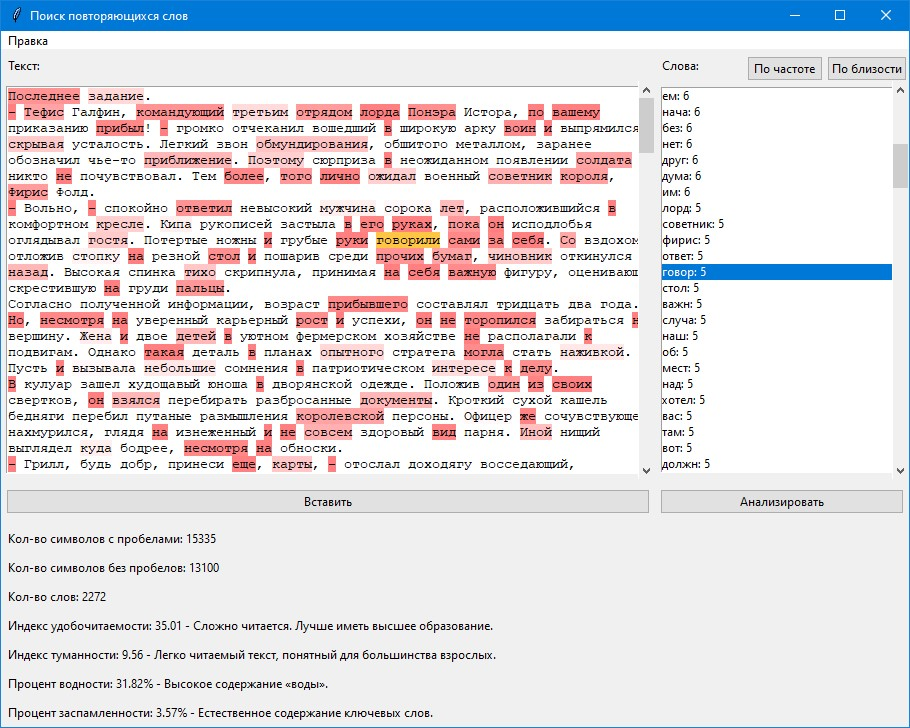
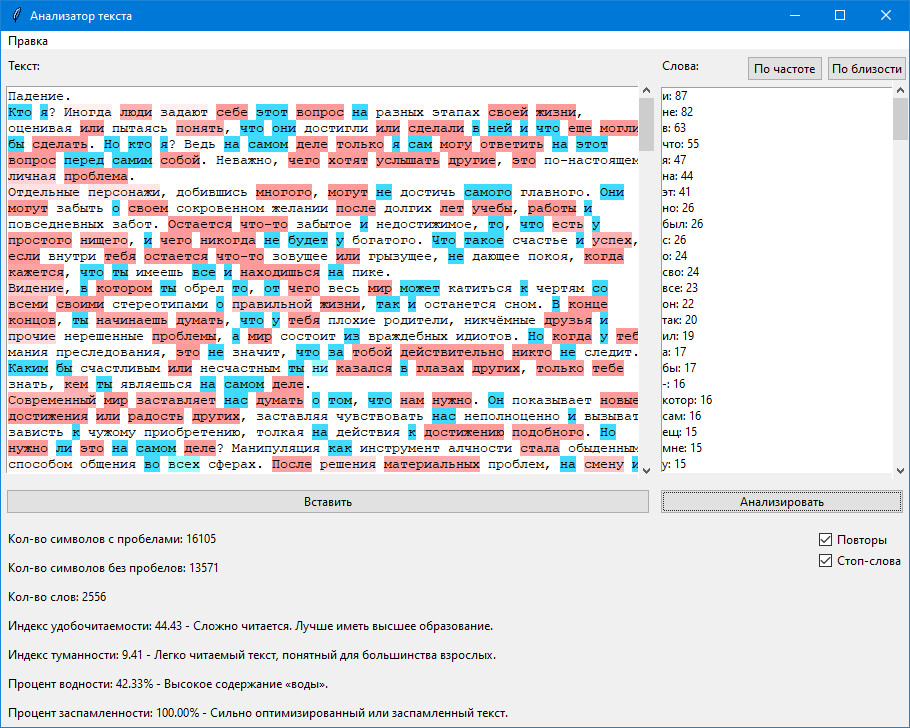
Stop words
Add new highlight type for worlds and interfece check buttons

diff --git a/text_analyzer.py b/text_analyzer.py
@@ -1,11 +1,13 @@
 import tkinter as tk
-from tkinter import ttk
+import nltk
+import logging
 import re
+
+from tkinter import ttk
 from nltk.stem import SnowballStemmer
 from nltk.tokenize import word_tokenize, sent_tokenize
 from collections import Counter
-import nltk
-import logging
+from dataclasses import dataclass
 
 logging.basicConfig(level=logging.INFO)
 
@@ -27,16 +29,27 @@ except LookupError:
     logging.info("Downloading necessary stopwords data...")
     nltk.download('stopwords')
 
+@dataclass
+class WordInfo:
+    count: int
+    min_distance: int
+    is_stopword: bool
+
+@dataclass
+class HighlightMode:
+    repeat_word: bool
+    stop_word: bool
+
 class DuplicateWordFinder(tk.Tk):
 
     def __init__(self):
         super().__init__()
-        self.title("Поиск повторяющихся слов")
+        self.title("Анализатор текста")
 
-        # Словари
-        self.text_length = 100  # Длина текста для нормировки
-        self.word_counts = {}
-        self.word_min_distances = {}  # Добавляем словарь для хранения минимальных расстояний
+        # Словари и переменные
+        self.highlight_mode = HighlightMode(repeat_word = True, stop_word = True)
+        self.text_length = 100   # Минимальная длина текста для нормировки
+        self.word_info = {}      # Добавляем словарь для хранения информации о словах
         self.sorted_words = []
 
         # Стоп-слова (можно расширить)
@@ -96,28 +109,40 @@ class DuplicateWordFinder(tk.Tk):
 
         # Добавляем метки для статистики
         self.char_count_label = ttk.Label(self, text="Кол-во символов с пробелами: -")
-        self.char_count_label.grid(row=4, column=0, columnspan=2, sticky="w", padx=5, pady=5)
+        self.char_count_label.grid(row=4, column=0, sticky="w", padx=5, pady=5)
 
         self.char_count_no_spaces_label = ttk.Label(self, text="Кол-во символов без пробелов: -")
-        self.char_count_no_spaces_label.grid(row=5, column=0, columnspan=2, sticky="w", padx=5, pady=5)
+        self.char_count_no_spaces_label.grid(row=5, column=0, sticky="w", padx=5, pady=5)
 
         self.word_count_label = ttk.Label(self, text="Кол-во слов: -")
-        self.word_count_label.grid(row=6, column=0, columnspan=2, sticky="w", padx=5, pady=5)
+        self.word_count_label.grid(row=6, column=0, sticky="w", padx=5, pady=5)
 
         # Добавляем метку для отображения индекса удобочитаемости
         self.easy_index_label = ttk.Label(self, text="Индекс удобочитаемости: -")
-        self.easy_index_label.grid(row=7, column=0, columnspan=2, sticky="w", padx=5, pady=5)
+        self.easy_index_label.grid(row=7, column=0, sticky="w", padx=5, pady=5)
 
         # Добавляем метку для отображения индекса туманности
         self.fog_index_label = ttk.Label(self, text="Индекс туманности: -")
-        self.fog_index_label.grid(row=8, column=0, columnspan=2, sticky="w", padx=5, pady=5)
+        self.fog_index_label.grid(row=8, column=0, sticky="w", padx=5, pady=5)
 
         # Добавляем метки для водности и заспамленности
         self.water_percentage_label = ttk.Label(self, text="Процент водности: -")
-        self.water_percentage_label.grid(row=9, column=0, columnspan=2, sticky="w", padx=5, pady=5)
+        self.water_percentage_label.grid(row=9, column=0, sticky="w", padx=5, pady=5)
 
         self.spam_percentage_label = ttk.Label(self, text="Процент заспамленности: -")
-        self.spam_percentage_label.grid(row=10, column=0, columnspan=2, sticky="w", padx=5, pady=5)
+        self.spam_percentage_label.grid(row=10, column=0, sticky="w", padx=5, pady=5)
+
+        # Добавляем фильтр подсветки
+        self.highlight_frame = ttk.Frame(self)
+        self.highlight_frame.grid(row=4, column=1, rowspan=7, sticky="ne", padx=5, pady=5) # Размещаем справа от статистики
+
+        self.repeat_word_var = tk.BooleanVar(value=True)
+        self.repeat_word_check = ttk.Checkbutton(self.highlight_frame, text="Повторы", variable=self.repeat_word_var, command=self.update_highlight_options)
+        self.repeat_word_check.pack(anchor="w")
+
+        self.stop_word_var = tk.BooleanVar(value=True)
+        self.stop_word_check = ttk.Checkbutton(self.highlight_frame, text="Стоп-слова", variable=self.stop_word_var, command=self.update_highlight_options)
+        self.stop_word_check.pack(anchor="w")
 
         # Меню
         self.menu_bar = tk.Menu(self)
@@ -134,7 +159,7 @@ class DuplicateWordFinder(tk.Tk):
         self.bind_all("<KeyPress>", self.key_event_handler, add="+")
 
     def key_event_handler(self, event):
-        if event.keysym != "??":  # Check if keysym is a valid character
+        if event.keysym != "??":  # Исключаем дублированную обработку события
             return
 
         command_pressed = (event.state & 0x100) != 0  # (macOS)
@@ -247,7 +272,6 @@ class DuplicateWordFinder(tk.Tk):
         else:
             return "Очень сложно читается. Лучше иметь ученую степень."
 
-
     def calculate_water_percentage(self, words):
         """Вычисляет процент "воды" в тексте."""
         if not words:
@@ -265,22 +289,28 @@ class DuplicateWordFinder(tk.Tk):
             return 0
         most_common_word_count = max(word_counts.values())
 
-
         # Считаем заспамленность как отношение кол-ва самого частого слова к общему числу слов
         return (most_common_word_count / len(words)) * 100
-
 
 
     def analyze_text(self):
         text = self.input_text.get("1.0", tk.END)
         processed_text = self.preprocess_text(text)
-        words = word_tokenize(processed_text, language="russian")  # Tokenize with language
+        words = word_tokenize(processed_text, language="russian")  # Токенизация по языку
         self.text_length = max(len(words), 100)
 
         stemmed_words = [self.stemmer.stem(word) for word in words]
-        self.word_counts = Counter(stemmed_words)
-        # Keep only words that occur more than once *after* stemming
-        self.word_counts = {word: count for word, count in self.word_counts.items() if count > 1}
+
+        self.word_info = {}  # Очищаем word_info перед заполнением
+        for stemmed_word in set(stemmed_words):  # Итерируем по уникальным стеммированным словам
+            wcount = stemmed_words.count(stemmed_word)
+            is_stop_word = stemmed_word in self.stop_words
+            if (wcount > 1 or is_stop_word):
+                self.word_info[stemmed_word] = WordInfo(
+                    count = wcount,
+                    min_distance = self.text_length,  # Инициализируем максимальным значением
+                    is_stopword = is_stop_word
+                )
 
         # Удаляем все теги подсветки
         for tag in self.input_text.tag_names():
@@ -290,9 +320,9 @@ class DuplicateWordFinder(tk.Tk):
         char_index = 0
         for i, word in enumerate(words):
             # Находим позицию слова в исходном тексте
-            char_index = processed_text.find(word, char_index) # Find in *processed* text
+            char_index = processed_text.find(word, char_index)
             stemmed_word = stemmed_words[i]
-            if stemmed_word in self.word_counts:
+            if stemmed_word in self.word_info:
                 if stemmed_word not in word_positions:
                     word_positions[stemmed_word] = []
                 # Добавляем и номер слова, и позицию в тексте
@@ -301,17 +331,14 @@ class DuplicateWordFinder(tk.Tk):
             char_index += len(word)  # Обновляем индекс для следующего поиска
 
         # Вычисляем минимальные расстояния для каждого слова
-        self.word_min_distances = {}
-        for word, positions in word_positions.items():
+        for stemmed_word, positions in word_positions.items():
             if len(positions) > 1:
                 min_dist = float('inf')
                 for i in range(len(positions) - 1):
                     # Используем номера слов для расчета расстояния
                     distance = positions[i + 1] - positions[i]
                     min_dist = min(min_dist, distance)
-                self.word_min_distances[word] = min_dist
-            else:
-                self.word_min_distances[word] = self.text_length  # Если слово встречается только один раз
+                self.word_info[stemmed_word].min_distance = min_dist
 
         # Обновляем статистику
         self.char_count_label.config(text=f"Кол-во символов с пробелами: {len(text)}")
@@ -340,7 +367,7 @@ class DuplicateWordFinder(tk.Tk):
         self.water_percentage_label.config(text=water_text)
 
         # Рассчитываем и выводим процент заспамленности
-        spam_percentage = self.calculate_spam_percentage(words, self.word_counts)
+        spam_percentage = self.calculate_spam_percentage(words, {k:v.min_distance for k, v in self.word_info.items()})
         spam_text = f"Процент заспамленности: {spam_percentage:.2f}% - "
         if spam_percentage < 30:
             spam_text += "Естественное содержание ключевых слов."
@@ -352,19 +379,18 @@ class DuplicateWordFinder(tk.Tk):
 
 
         self.sort_results("count")  # Сортируем по умолчанию по частоте
-        self.highlight()  # Подсвечиваем все слова при анализе
+        self.update_highlight()  # Подсвечиваем все слова при анализе
 
     def sort_results(self, sort_type):
         if sort_type == "count":
-            self.sorted_words = sorted(self.word_counts.items(), key=lambda item: item[1], reverse=True)
+            self.sorted_words = sorted(self.word_info.items(), key=lambda item: item[1].count, reverse=True)
         elif sort_type == "distance":
             # Сортируем по минимальному расстоянию, затем по частоте (если расстояния равны)
-            self.sorted_words = sorted(self.word_counts.items(),
-                                       key=lambda item: (self.word_min_distances[item[0]], -item[1]))
+            self.sorted_words = sorted(self.word_info.items(), key=lambda item: (item[1].min_distance, -item[1].count))
 
         self.output_listbox.delete(0, tk.END)  # Очистка списка
-        for word, count in self.sorted_words:
-            self.output_listbox.insert(tk.END, f"{word}: {count}")  # Добавление элемента
+        for word, info in self.sorted_words:
+            self.output_listbox.insert(tk.END, f"{word}: {info.count}")  # Добавление элемента
 
     def get_clicked_word(self, event=None):
         if not event:
@@ -377,9 +403,9 @@ class DuplicateWordFinder(tk.Tk):
         if not (start_char >= 0 and start_char < len(text)):
             return ""
         end_char = start_char
-        while start_char > 0 and (text[start_char - 1].isalnum() or text[start_char - 1] == "_"):
+        while start_char > 0 and (text[start_char - 1].isalnum() or text[start_char - 1] == "_" or text[start_char - 1] == "-"):
             start_char -= 1
-        while end_char < len(text) and (text[end_char].isalnum() or text[end_char] == "_"):
+        while end_char < len(text) and (text[end_char].isalnum() or text[end_char] == "_" or text[end_char] == "-"):
             end_char += 1
         return self.stemmer.stem(text[start_char:end_char])
 
@@ -401,39 +427,52 @@ class DuplicateWordFinder(tk.Tk):
                         self.output_listbox.see(i)  # Прокручиваем к выделенному элементу
                         break
 
-            if selected_word in self.word_min_distances:
-                self.highlight(selected_word)
+            if selected_word in self.word_info:
+                self.update_highlight(selected_word)
         else:
-            self.highlight()
+            self.update_highlight()
 
     def calculate_intensity(self, word):
         # Рассчитываем интенсивность на основе минимального расстояния
-        min_distance = self.word_min_distances.get(word, self.text_length)
+        min_distance = self.word_info.get(word, WordInfo(0,self.text_length,False)).min_distance
         if min_distance == self.text_length:
-            normalized_intensity = 0  # если одно вхождение
+            normalized_intensity = 255  # если одно вхождение
         else:
             normalized_intensity = int((1.0 - (1.0 - min_distance / self.text_length) ** 2) * 32)  # нормализация
             normalized_intensity = max(1, min(normalized_intensity * 8, 255))  # ограничение
         return normalized_intensity
 
-    def highlight(self, select_word=""):
-        for word in self.word_min_distances.keys():
+    def update_highlight(self, select_word=""):
+        for word, values in self.word_info.items():
             intensity = self.calculate_intensity(word)
             if word == select_word:
                 hex_color = self.get_mark(intensity)
+            elif (values.is_stopword and self.highlight_mode.stop_word):
+                hex_color = self.get_stop(intensity)
+            elif self.highlight_mode.repeat_word:
+                hex_color = self.get_repeat(intensity)
             else:
-                hex_color = self.get_color(intensity)
+                hex_color = "#FFFFFF"
             self.input_text.tag_config(word, background=hex_color)
 
-    def get_color(self, intensity):
-        color_b = min(int(128 + (intensity * 0.5)), 255)
-        color_r = min(int(128 + (intensity * 0.5)), 255)
-        return f"#FF{color_r:02x}{color_b:02x}"
+    def update_highlight_options(self):
+        self.highlight_mode.repeat_word = self.repeat_word_var.get()
+        self.highlight_mode.stop_word = self.stop_word_var.get()
+        self.update_highlight()
 
-    def get_mark(self, intensity):
-        color_b = min(int(64 + (intensity * 0.75)), 255)
-        color_r = min(int(196 + (intensity * 0.25)), 255)
-        return f"#FF{color_r:02x}{color_b:02x}"
+    def get_stop(self, intensity):  # подсветка стоп слов
+        color_r = min(64 + int(intensity * 0.4), 255)
+        color_g = min(218 + int(intensity * 0.15), 255)
+        return f"#{color_r:02x}{color_g:02x}FF"
+
+    def get_repeat(self, intensity):  # подсветка повторяющихся слов
+        color = min(154 + int(intensity * 0.4), 255)
+        return f"#FF{color:02x}{color:02x}"
+
+    def get_mark(self, intensity):  # подсветка выбранного слова
+        color_b = min(64 + int(intensity * 0.5), 255)
+        color_r = min(196 + int(intensity * 0.2), 255)
+        return f"#{color_r:02x}FF{color_b:02x}"
 
     def paste_text(self, event=None):
         try:
